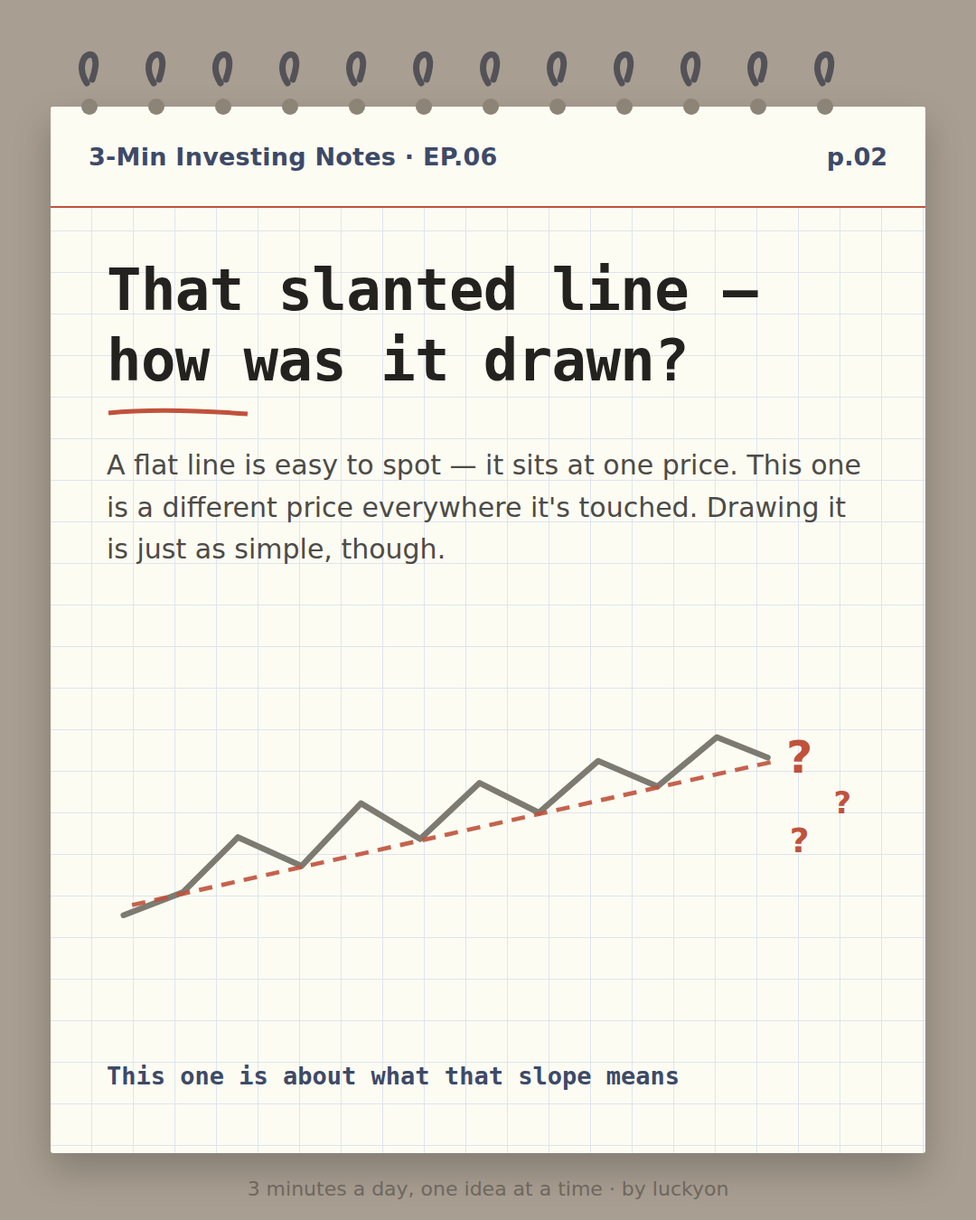
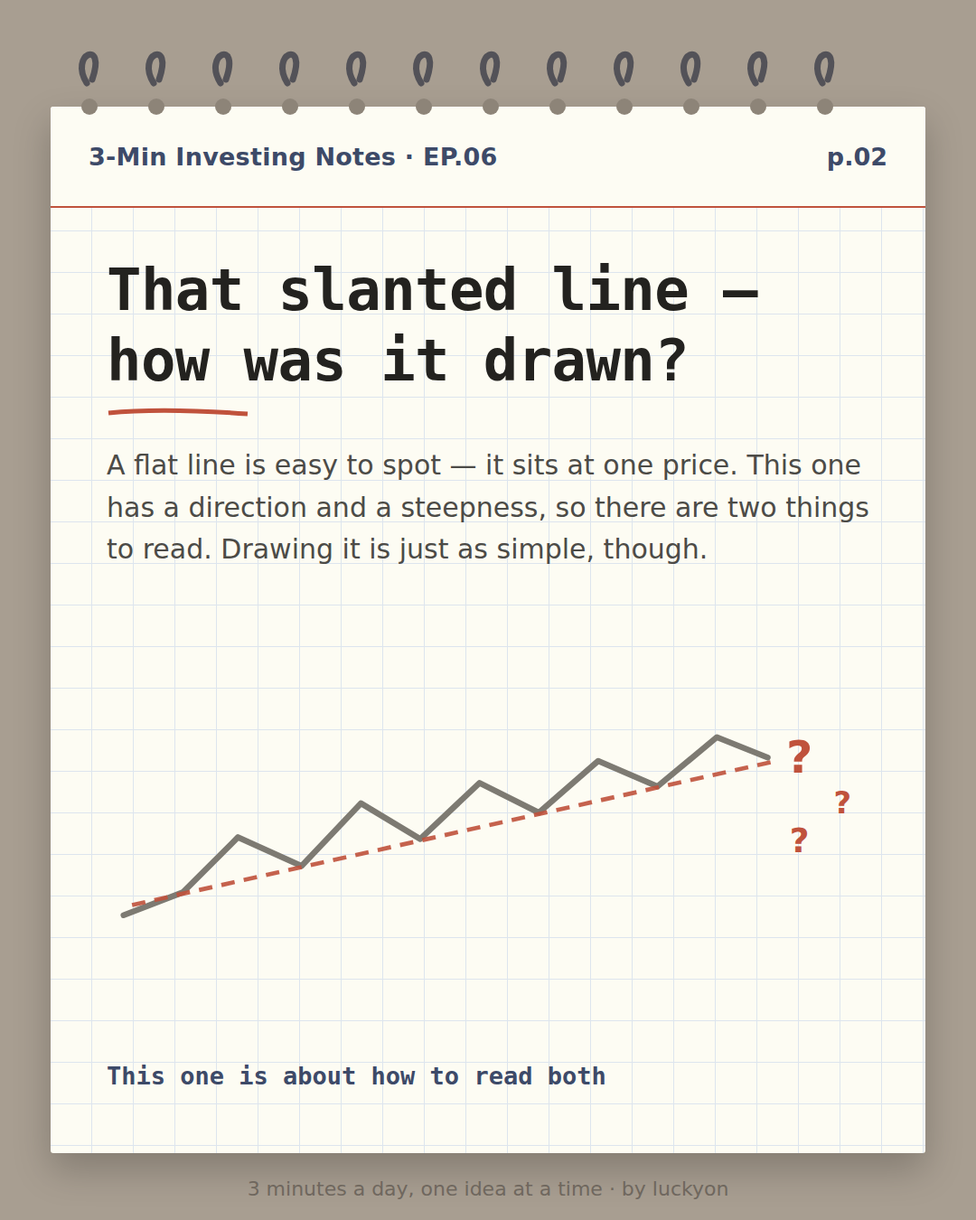
chart-notes: ep06 «방향»을 되살린다 — 표지 두 방향 + 카드 네 장 보강
사용자 지적 — «추세선은 항상 방향과 기울기를 같이 보는데 자꾸 한 부분만
표기된 것들이 보인다. 기울어진 선 두 개로 방향과 속도를 봅니다가 맞지 않나.»
맞다. 축이 둘인 줄 알면서 카드 네 장이 속도만 말하고 있었다.

- p.01 표지: overlay `trend2` 로 상승·하락 두 그룹을 나란히 놓았다. 제목은
  「기울어진 선 두 개로 방향과 속도를 봅니다」, 주석은 「선이 향한 쪽이 «방향» /
  기울어진 정도가 «속도»」. 캔들 색까지 상승·하락이 갈려 EP.01 의 색 관행도
  같이 보인다. 종전 「방향만이 아니라 속도까지」는 방향을 이미 아는 것으로
  밀어내는 문장이었다.
- p.02: 「향한 쪽과 기울어진 정도, 읽을 것이 둘」로 축 두 개를 여기서 세운다.
- p.04: 진짜 대비를 세웠다 — 「가로선 = 멈추는 높이 하나 / 추세선 = 방향과
  속도 둘」. 종전 행은 «속도»만 적혀 있어 대비가 반쪽이었다.
- p.08 요약 ②: 「기울기가 곧 속도」 → 「선이 향한 쪽이 «방향», 기울기가 «속도»」.
- 캡션·대체텍스트도 같은 기준으로 전부 맞췄다.

커버리지 표(신설된 3-0-2)로 다시 확인했다 — 「방향」이 p.01·02·03·04·05·08
여섯 장, 「속도」가 p.01·02·04·07·08 다섯 장에 들어갔다. 종전에는 방향이
사실상 어느 카드에도 없었다.

Claude-Session: https://claude.ai/code/session_01DwdXeftpno199BA7Z1hCtm

Changed region(s): [[0.1222, 0.4044, 0.8861, 0.4667], [0.3667, 0.8711, 0.7028, 0.9022]]

diff --git a/cards/chart-notes/2026-09-06-ep06/preview.html b/cards/chart-notes/2026-09-06-ep06/preview.html
@@ -62,20 +62,20 @@
     <h2>🇰🇷 한국어 — 8장</h2>
     <div class="cards">
     <figure>
-      <img src="ko/card1.png" alt="표지. 크림색 모눈 노트 위에 캔들 여덟 개가 왼쪽 아래에서 오른쪽 위로 계단처럼 올라간다. 그 캔들들의 아래꼬리 끝을 따라 붉은 점선 하나가 비스듬히 그어져 있고, 여러 캔들의 저가가 그 선에 닿아 있다. 점선의 오른쪽 끝을 가리키며 '저점이 점점 올라왔다 — 그 자리를 이은 선'이라는 주석이 붙어 있다. 큰 제목 '기울어진 선 하나로 방향만이 아니라 «속도»까지 봅니다', 부제 'EP.06 · 추세선', 노란 형광펜 칩 '저장하고 넘겨보세요'." loading="lazy">
-      <figcaption><b>p.01</b> 표지. 크림색 모눈 노트 위에 캔들 여덟 개가 왼쪽 아래에서 오른쪽 위로 계단처럼 올라간다. 그 캔들들의 아래꼬리 끝을 따라 붉은 점선 하나가 비스듬히 그어져 있고, 여러 캔들의 저가가 그 선에 닿아 있다. 점선의 오른쪽 끝을 가리키며 '저점이 점점 올라왔다 — 그 자리를 이은 선'이라는 주석이 붙어 있다. 큰 제목 '기울어진 선 하나로 방향만이 아니라 «속도»까지 봅니다', 부제 'EP.06 · 추세선', 노란 형광펜 칩 '저장하고 넘겨보세요'.</figcaption>
+      <img src="ko/card1.png" alt="표지. 크림색 모눈 노트 위에 캔들 묶음이 두 벌 나란히 있다. 왼쪽은 캔들 다섯 개가 계단처럼 올라가고 그 저가들을 따라 붉은 점선이 오른쪽 위로 비스듬히 지난다. 오른쪽은 캔들 다섯 개가 계단처럼 내려가고 그 고가들을 따라 붉은 점선이 오른쪽 아래로 지난다. 두 그림 아래에 '선이 향한 쪽이 «방향» / 기울어진 정도가 «속도»'라는 주석이 붉은 글씨로 두 줄 적혀 있다. 큰 제목 '기울어진 선 두 개로 방향과 속도를 봅니다', 부제 'EP.06 · 추세선', 노란 형광펜 칩 '저장하고 넘겨보세요'." loading="lazy">
+      <figcaption><b>p.01</b> 표지. 크림색 모눈 노트 위에 캔들 묶음이 두 벌 나란히 있다. 왼쪽은 캔들 다섯 개가 계단처럼 올라가고 그 저가들을 따라 붉은 점선이 오른쪽 위로 비스듬히 지난다. 오른쪽은 캔들 다섯 개가 계단처럼 내려가고 그 고가들을 따라 붉은 점선이 오른쪽 아래로 지난다. 두 그림 아래에 '선이 향한 쪽이 «방향» / 기울어진 정도가 «속도»'라는 주석이 붉은 글씨로 두 줄 적혀 있다. 큰 제목 '기울어진 선 두 개로 방향과 속도를 봅니다', 부제 'EP.06 · 추세선', 노란 형광펜 칩 '저장하고 넘겨보세요'.</figcaption>
     </figure>
     <figure>
-      <img src="ko/card2.png" alt="도입 카드. 제목 '차트에 비스듬한 선, 어떻게 그은 걸까요?' 아래에 '가로선은 높이가 하나뿐이라 찾기 쉽지만 이 선은 닿는 자리마다 값이 다르다'는 본문이 있다. 그림은 회색 꺾은선이 왼쪽 아래에서 오른쪽 위로 오르내리며 올라가고, 그 저점들을 따라 붉은 점선 한 줄이 비스듬히 가로지른다. 점선이 끝나는 오른쪽 바깥에 붉은 물음표 세 개가 찍혀 «이 선이 어떻게 그어진 것이냐»고 묻는다. 맨 아래 '이번 편은 그 기울기가 무엇을 뜻하는지 봅니다'." loading="lazy">
-      <figcaption><b>p.02</b> 도입 카드. 제목 '차트에 비스듬한 선, 어떻게 그은 걸까요?' 아래에 '가로선은 높이가 하나뿐이라 찾기 쉽지만 이 선은 닿는 자리마다 값이 다르다'는 본문이 있다. 그림은 회색 꺾은선이 왼쪽 아래에서 오른쪽 위로 오르내리며 올라가고, 그 저점들을 따라 붉은 점선 한 줄이 비스듬히 가로지른다. 점선이 끝나는 오른쪽 바깥에 붉은 물음표 세 개가 찍혀 «이 선이 어떻게 그어진 것이냐»고 묻는다. 맨 아래 '이번 편은 그 기울기가 무엇을 뜻하는지 봅니다'.</figcaption>
+      <img src="ko/card2.png" alt="도입 카드. 제목 '차트에 비스듬한 선, 어떻게 그은 걸까요?' 아래에 '가로선은 값이 하나라 금방 눈에 들어오지만, 이 선은 향한 쪽과 기울어진 정도까지 읽을 것이 둘'이라는 본문이 있다. 그림은 회색 꺾은선이 왼쪽 아래에서 오른쪽 위로 오르내리며 올라가고, 그 저점들을 따라 붉은 점선 한 줄이 비스듬히 가로지른다. 점선이 끝나는 오른쪽 바깥에 붉은 물음표 세 개가 찍혀 «이 선이 어떻게 그어진 것이냐»고 묻는다. 맨 아래 '이번 편에서는 그 둘을 어떻게 읽는지 봅니다'." loading="lazy">
+      <figcaption><b>p.02</b> 도입 카드. 제목 '차트에 비스듬한 선, 어떻게 그은 걸까요?' 아래에 '가로선은 값이 하나라 금방 눈에 들어오지만, 이 선은 향한 쪽과 기울어진 정도까지 읽을 것이 둘'이라는 본문이 있다. 그림은 회색 꺾은선이 왼쪽 아래에서 오른쪽 위로 오르내리며 올라가고, 그 저점들을 따라 붉은 점선 한 줄이 비스듬히 가로지른다. 점선이 끝나는 오른쪽 바깥에 붉은 물음표 세 개가 찍혀 «이 선이 어떻게 그어진 것이냐»고 묻는다. 맨 아래 '이번 편에서는 그 둘을 어떻게 읽는지 봅니다'.</figcaption>
     </figure>
     <figure>
       <img src="ko/card3.png" alt="원리 카드. 감청색 꺾은선이 오르내리며 오른쪽 위로 올라가고, 그 저점 세 개를 지나는 붉은 점선이 왼쪽 아래에서 오른쪽 위로 비스듬히 그어져 있다. 선이 그 점선에 닿은 자리마다 붉은 동그라미 안에 번호가 매겨져 있다 — 왼쪽부터 ①②③. 본문은 가격이 방향을 튼 저점 가운데 점점 높아지는 두 개를 골라 잇고, 그 선을 오른쪽으로 늘려 놓은 뒤 가격이 세 번째로도 그 자리에서 멈추는지 지켜본다고 설명한다. 아래 범례에 감청색 '주가'와 붉은색 '추세선'. 그 아래 붉은 세로줄이 그어진 문단에 '거꾸로도 똑같습니다. 점점 «낮아지는» 고점 두 개를 이으면 하락 추세선이 되고, 이때는 가격이 아래에서 그 선에 부딪힙니다. 잇는 자리가 저점에서 고점으로 바뀔 뿐, 방법은 하나입니다.' 노란 형광펜 마무리 문구는 '두 점이면 선, 세 번째부터 «추세»입니다'." loading="lazy">
       <figcaption><b>p.03</b> 원리 카드. 감청색 꺾은선이 오르내리며 오른쪽 위로 올라가고, 그 저점 세 개를 지나는 붉은 점선이 왼쪽 아래에서 오른쪽 위로 비스듬히 그어져 있다. 선이 그 점선에 닿은 자리마다 붉은 동그라미 안에 번호가 매겨져 있다 — 왼쪽부터 ①②③. 본문은 가격이 방향을 튼 저점 가운데 점점 높아지는 두 개를 골라 잇고, 그 선을 오른쪽으로 늘려 놓은 뒤 가격이 세 번째로도 그 자리에서 멈추는지 지켜본다고 설명한다. 아래 범례에 감청색 '주가'와 붉은색 '추세선'. 그 아래 붉은 세로줄이 그어진 문단에 '거꾸로도 똑같습니다. 점점 «낮아지는» 고점 두 개를 이으면 하락 추세선이 되고, 이때는 가격이 아래에서 그 선에 부딪힙니다. 잇는 자리가 저점에서 고점으로 바뀔 뿐, 방법은 하나입니다.' 노란 형광펜 마무리 문구는 '두 점이면 선, 세 번째부터 «추세»입니다'.</figcaption>
     </figure>
     <figure>
-      <img src="ko/card4.png" alt="비교 카드 '가로선과 뭐가 다를까요'. 왼쪽에 감청색으로 칠해진 '추세선 · 기울어진 선', 오른쪽에 회색 '지지선 · 가로선' 머리칸이 있고 아래로 세 줄이 맞대어 있다. '이을 점들은' — 점점 높아지거나 낮아진다 / 같은 높이다. '그래서 알 수 있는 건' — 점들이 오르내리는 «속도» / 가격이 멈추는 «높이». '선을 벗어나면' — 지켜 오던 흐름이 깨진 것 / 그 높이가 뚫린 것. 노란 형광펜 마무리 문구는 '같은 차트인데 추세선은 사람마다 다릅니다'." loading="lazy">
-      <figcaption><b>p.04</b> 비교 카드 '가로선과 뭐가 다를까요'. 왼쪽에 감청색으로 칠해진 '추세선 · 기울어진 선', 오른쪽에 회색 '지지선 · 가로선' 머리칸이 있고 아래로 세 줄이 맞대어 있다. '이을 점들은' — 점점 높아지거나 낮아진다 / 같은 높이다. '그래서 알 수 있는 건' — 점들이 오르내리는 «속도» / 가격이 멈추는 «높이». '선을 벗어나면' — 지켜 오던 흐름이 깨진 것 / 그 높이가 뚫린 것. 노란 형광펜 마무리 문구는 '같은 차트인데 추세선은 사람마다 다릅니다'.</figcaption>
+      <img src="ko/card4.png" alt="비교 카드 '가로선과 뭐가 다를까요'. 왼쪽에 감청색으로 칠해진 '추세선 · 기울어진 선', 오른쪽에 회색 '지지선 · 가로선' 머리칸이 있고 아래로 세 줄이 맞대어 있다. '이을 점들은' — 점점 높아지거나 낮아진다 / 같은 높이다. '그래서 읽을 것은' — «방향»과 «속도» 둘 / 멈추는 «높이» 하나. '선을 벗어나면' — 지켜 오던 흐름이 깨진 것 / 그 높이가 뚫린 것. 노란 형광펜 마무리 문구는 '같은 차트인데 추세선은 사람마다 다릅니다'." loading="lazy">
+      <figcaption><b>p.04</b> 비교 카드 '가로선과 뭐가 다를까요'. 왼쪽에 감청색으로 칠해진 '추세선 · 기울어진 선', 오른쪽에 회색 '지지선 · 가로선' 머리칸이 있고 아래로 세 줄이 맞대어 있다. '이을 점들은' — 점점 높아지거나 낮아진다 / 같은 높이다. '그래서 읽을 것은' — «방향»과 «속도» 둘 / 멈추는 «높이» 하나. '선을 벗어나면' — 지켜 오던 흐름이 깨진 것 / 그 높이가 뚫린 것. 노란 형광펜 마무리 문구는 '같은 차트인데 추세선은 사람마다 다릅니다'.</figcaption>
     </figure>
     <figure>
       <img src="ko/card5.png" alt="추세 이탈 카드. 감청색 꺾은선이 붉은 점선 추세선을 따라 올라가며 세 번 그 선에서 멈추고, 멈춘 자리마다 붉은 동그라미 ①②③이 붙어 있다. 그러다 오른쪽에서 선이 꺾여 내려오면서 이번에는 점선 «아래»에서 멈추는데, 그 저점은 직전 ③보다는 높은 자리다 — 저점은 올라갔지만 점선을 지킬 만큼은 못 올라온 모양이다. 그 지점에 번호 없는 붉은 동그라미가 있고 그 아래에 '선 이탈' 라벨이 붙어 있다. 이후 선은 점선 아래에 머문 채 오른쪽 위로 이어진다. 본문은 직전 저점보다는 높지만 선을 지킬 만큼 높지는 않았고, 추세가 끝났다는 뜻은 아니며 «흔들린다»는 첫 신호로 본다고 설명한다. 아래 붉은 세로줄 문단에 '하락 추세선이면 방향만 반대입니다 — 고점을 이은 선 «위로» 올라간 날이 이탈입니다.' 노란 형광펜 마무리 문구는 '이탈은 결론이 아니라 첫 신호입니다'." loading="lazy">
@@ -90,29 +90,29 @@
       <figcaption><b>p.07</b> 실수 카드. 번호 붙은 세 항목. 1. 선부터 긋고 저점을 고른다 — 그럴듯한 각도를 먼저 정하고 거기 걸리는 저점만 고르면 시장의 기록이 아니라 내가 그린 그림이 된다. 2. 꼬리 하나로 이탈을 판정한다 — 장중에 저가가 잠깐 선 아래를 찍었다가 다시 올라온 날과 종가까지 선 아래에서 끝난 날은 다르다. 3. 가파를수록 좋은 선이라 본다 — 가파른 선일수록 다음 점이 그만큼 더 움직여 줘야 버티므로, 바라는 게 클수록 지켜지기 어렵다. 아래 붉은 테두리 상자에 '가장 흔한 오해 — 이탈은 «오르던 흐름이 흔들린다»는 첫 신호일 뿐, 추세가 끝났다거나 이제 내려간다는 뜻이 아닙니다. 거기서 가격은 다시 올라갈 수도, 옆으로 갈 수도, 돌아설 수도 있습니다'.</figcaption>
     </figure>
     <figure>
-      <img src="ko/card8.png" alt="요약 카드. 체크박스 세 줄: 점 두 개면 선이고, 세 번째가 있어야 «추세»입니다 / 기울기가 곧 그 점들이 오르내리는 «속도»입니다 / 이탈은 결론이 아니라 첫 신호입니다. 노란 형광펜 칩 두 개로 저장 유도와 해시태그, 그 아래 '다음 편 ▶ 갭 상승·갭 하락', 맨 아래에 교육 목적 고지." loading="lazy">
-      <figcaption><b>p.08</b> 요약 카드. 체크박스 세 줄: 점 두 개면 선이고, 세 번째가 있어야 «추세»입니다 / 기울기가 곧 그 점들이 오르내리는 «속도»입니다 / 이탈은 결론이 아니라 첫 신호입니다. 노란 형광펜 칩 두 개로 저장 유도와 해시태그, 그 아래 '다음 편 ▶ 갭 상승·갭 하락', 맨 아래에 교육 목적 고지.</figcaption>
+      <img src="ko/card8.png" alt="요약 카드. 체크박스 세 줄: 점 두 개면 선이고, 세 번째가 있어야 «추세»입니다 / 선이 향한 쪽이 «방향», 기울기가 «속도»입니다 / 이탈은 결론이 아니라 첫 신호입니다. 노란 형광펜 칩 두 개로 저장 유도와 해시태그, 그 아래 '다음 편 ▶ 갭 상승·갭 하락', 맨 아래에 교육 목적 고지." loading="lazy">
+      <figcaption><b>p.08</b> 요약 카드. 체크박스 세 줄: 점 두 개면 선이고, 세 번째가 있어야 «추세»입니다 / 선이 향한 쪽이 «방향», 기울기가 «속도»입니다 / 이탈은 결론이 아니라 첫 신호입니다. 노란 형광펜 칩 두 개로 저장 유도와 해시태그, 그 아래 '다음 편 ▶ 갭 상승·갭 하락', 맨 아래에 교육 목적 고지.</figcaption>
     </figure></div>
-    <h3>캡션 (1187자)</h3>
-    <div class="cap">차트에 비스듬하게 그어진 선, 대충 눈대중으로 그은 게 아닙니다.<br><br>가격이 방향을 튼 저점들 가운데 «점점 높아지는» 두 개를 골라 이으면 그게 추세선입니다. 두 점이면 선은 되지만, 세 번째로도 그 자리에서 멈추는 날이 와야 «추세»입니다.<br><br>이번 편에서 꼭 가져가셨으면 하는 것 하나. 가로선(지지선)과 추세선은 재는 것이 다릅니다. 가로선으로는 가격이 멈추는 «높이»를 알고, 추세선의 기울기로는 그 점들이 오르내리는 «속도»를 압니다. 그리고 가격이 그 선을 벗어난 날, 저점들이 지켜 오던 규칙이 처음으로 어긋납니다. 다만 그것으로 추세가 끝났다거나 이제 반대로 간다고 정해지지는 않습니다 — 잠깐 되돌렸다가 추세가 그대로 이어지기도 합니다. «흔들린다»는 첫 신호까지가 이 선으로 알 수 있는 전부이고, 이걸 «이제 떨어진다»로 읽는 것이 가장 흔한 오해입니다.<br><br>실제 삼성전자 일봉으로도 확인했습니다. 2026년 7월 30일 저가 20만 2,000원과 8월 11일 저가 22만 7,500원을 이어 오른쪽으로 늘려 봤더니, 8거래일 뒤인 8월 24일 저가 25만 5,000원이 그 선(25만 3,000원) 바로 위에서 멈췄습니다. 이 선이 어떻게 끝났는지도 같이 실었습니다 — 8월 25·26·27일은 꼬리만 선 아래를 찍고 종가는 위였지만, 8월 28일에는 종가 25만 7,000원이 선(26만 5,750원) 아래에서 끝났습니다. 꼬리와 종가를 갈라 보는 이유가 여기 있습니다. 그리고 그 뒤 8월 31일부터 9월 4일까지, 값은 더 내려가지 않고 옆으로만 갔습니다 — 선이 깨지는 것과 값이 떨어지는 것은 다릅니다.<br><br>카드에 실은 예시는 저점을 잇는 상승 추세선이지만, 거꾸로도 똑같습니다. 점점 «낮아지는» 고점 두 개를 이으면 하락 추세선이고, 이때는 가격이 아래에서 그 선에 부딪힙니다. 이탈도 반대로, 선 «위로» 올라간 날입니다. 잇는 자리가 저점에서 고점으로 바뀔 뿐 방법은 하나입니다.<br><br>기억할 세 가지<br>① 점 두 개면 선이고, 세 번째가 있어야 «추세»다<br>② 기울기가 곧 그 점들이 오르내리는 속도다<br>③ 이탈은 결론이 아니라 «흔들린다»는 첫 신호다<br><br>저장해 두고 차트 볼 때 꺼내 보세요 📌<br><br>#추세선 #추세이탈 #지지선 #주식차트 #주식공부 #주식초보 #차트분석 #기술적분석 #삼성전자 #투자3분노트<br><br>다음 편 ▶ 갭 상승·갭 하락<br><br>※ 본 콘텐츠는 교육 목적이며 투자 권유가 아닙니다.</div>
+    <h3>캡션 (1217자)</h3>
+    <div class="cap">차트에 비스듬하게 그어진 선, 대충 눈대중으로 그은 게 아닙니다.<br><br>가격이 방향을 튼 저점들 가운데 «점점 높아지는» 두 개를 골라 이으면 그게 추세선입니다. 두 점이면 선은 되지만, 세 번째로도 그 자리에서 멈추는 날이 와야 «추세»입니다.<br><br>이번 편에서 꼭 가져가셨으면 하는 것 하나. 가로선(지지선)과 추세선은 재는 것이 다릅니다. 가로선에서는 가격이 멈추는 «높이» 하나를 읽지만, 추세선에서는 선이 향한 쪽에서 «방향»을, 기울어진 정도에서 «속도»를 함께 읽습니다. 읽을 것이 둘입니다. 그리고 가격이 그 선을 벗어난 날, 저점들이 지켜 오던 규칙이 처음으로 어긋납니다. 다만 그것으로 추세가 끝났다거나 이제 반대로 간다고 정해지지는 않습니다 — 잠깐 되돌렸다가 추세가 그대로 이어지기도 합니다. «흔들린다»는 첫 신호까지가 이 선으로 알 수 있는 전부이고, 이걸 «이제 떨어진다»로 읽는 것이 가장 흔한 오해입니다.<br><br>실제 삼성전자 일봉으로도 확인했습니다. 2026년 7월 30일 저가 20만 2,000원과 8월 11일 저가 22만 7,500원을 이어 오른쪽으로 늘려 봤더니, 8거래일 뒤인 8월 24일 저가 25만 5,000원이 그 선(25만 3,000원) 바로 위에서 멈췄습니다. 이 선이 어떻게 끝났는지도 같이 실었습니다 — 8월 25·26·27일은 꼬리만 선 아래를 찍고 종가는 위였지만, 8월 28일에는 종가 25만 7,000원이 선(26만 5,750원) 아래에서 끝났습니다. 꼬리와 종가를 갈라 보는 이유가 여기 있습니다. 그리고 그 뒤 8월 31일부터 9월 4일까지, 값은 더 내려가지 않고 옆으로만 갔습니다 — 선이 깨지는 것과 값이 떨어지는 것은 다릅니다.<br><br>카드에 실은 예시는 저점을 잇는 상승 추세선이지만, 거꾸로도 똑같습니다. 점점 «낮아지는» 고점 두 개를 이으면 하락 추세선이고, 이때는 가격이 아래에서 그 선에 부딪힙니다. 이탈도 반대로, 선 «위로» 올라간 날입니다. 잇는 자리가 저점에서 고점으로 바뀔 뿐 방법은 하나입니다.<br><br>기억할 세 가지<br>① 점 두 개면 선이고, 세 번째가 있어야 «추세»다<br>② 선이 향한 쪽이 방향, 기울기가 속도다<br>③ 이탈은 결론이 아니라 «흔들린다»는 첫 신호다<br><br>저장해 두고 차트 볼 때 꺼내 보세요 📌<br><br>#추세선 #추세이탈 #지지선 #주식차트 #주식공부 #주식초보 #차트분석 #기술적분석 #삼성전자 #투자3분노트<br><br>다음 편 ▶ 갭 상승·갭 하락<br><br>※ 본 콘텐츠는 교육 목적이며 투자 권유가 아닙니다.</div>
 
     <h2>🇺🇸 English — 8장</h2>
     <div class="cards">
     <figure>
-      <img src="en/card1.png" alt="Cover. On cream grid paper, eight candlesticks step up from the lower left to the upper right. A single red dashed line runs diagonally beneath them, touching the lows of several candles. An annotation points at the right end of that line: 'the lows kept rising — that's the line'. Headline 'One slanted line tells you how fast, not just which way', subtitle 'EP.06 · Trendlines', yellow highlighter chip 'Save this and swipe'." loading="lazy">
-      <figcaption><b>p.01</b> Cover. On cream grid paper, eight candlesticks step up from the lower left to the upper right. A single red dashed line runs diagonally beneath them, touching the lows of several candles. An annotation points at the right end of that line: 'the lows kept rising — that's the line'. Headline 'One slanted line tells you how fast, not just which way', subtitle 'EP.06 · Trendlines', yellow highlighter chip 'Save this and swipe'.</figcaption>
+      <img src="en/card1.png" alt="Cover. On cream grid paper, two groups of candlesticks sit side by side. On the left, five candles step upward and a red dashed line runs diagonally up along their lows. On the right, five candles step downward and a red dashed line runs diagonally down along their highs. Beneath the two groups, a two-line red annotation reads 'which way it points = direction / how steep it is = speed'. Headline 'Two slanted lines show direction and speed', subtitle 'EP.06 · Trendlines', yellow highlighter chip 'Save this and swipe'." loading="lazy">
+      <figcaption><b>p.01</b> Cover. On cream grid paper, two groups of candlesticks sit side by side. On the left, five candles step upward and a red dashed line runs diagonally up along their lows. On the right, five candles step downward and a red dashed line runs diagonally down along their highs. Beneath the two groups, a two-line red annotation reads 'which way it points = direction / how steep it is = speed'. Headline 'Two slanted lines show direction and speed', subtitle 'EP.06 · Trendlines', yellow highlighter chip 'Save this and swipe'.</figcaption>
     </figure>
     <figure>
-      <img src="en/card2.png" alt="Intro card. Headline 'That slanted line — how was it drawn?' with body text noting that a flat line sits at one price while this one is a different price everywhere it's touched. The sketch shows a grey zigzag climbing from the lower left to the upper right, with a single red dashed line running diagonally along its lows, and three red question marks just beyond where that dashed line ends. Footer line: 'This one is about what that slope means'." loading="lazy">
-      <figcaption><b>p.02</b> Intro card. Headline 'That slanted line — how was it drawn?' with body text noting that a flat line sits at one price while this one is a different price everywhere it's touched. The sketch shows a grey zigzag climbing from the lower left to the upper right, with a single red dashed line running diagonally along its lows, and three red question marks just beyond where that dashed line ends. Footer line: 'This one is about what that slope means'.</figcaption>
+      <img src="en/card2.png" alt="Intro card. Headline 'That slanted line — how was it drawn?' with body text noting that a flat line sits at one price while this one has both a direction and a steepness, so there are two things to read. The sketch shows a grey zigzag climbing from the lower left to the upper right, with a single red dashed line running diagonally along its lows, and three red question marks just beyond where that dashed line ends. Footer line: 'This one is about how to read both'." loading="lazy">
+      <figcaption><b>p.02</b> Intro card. Headline 'That slanted line — how was it drawn?' with body text noting that a flat line sits at one price while this one has both a direction and a steepness, so there are two things to read. The sketch shows a grey zigzag climbing from the lower left to the upper right, with a single red dashed line running diagonally along its lows, and three red question marks just beyond where that dashed line ends. Footer line: 'This one is about how to read both'.</figcaption>
     </figure>
     <figure>
       <img src="en/card3.png" alt="Mechanics card. A navy zigzag climbs to the upper right, and a red dashed line runs diagonally through three of its lows. Each point where the price line stops on that dashed line is marked with a red circled number — 1, 2 and 3 from left to right. Body text explains picking two lows that sit at rising heights, joining them, extending the line to the right, and watching for a third stop on it. A legend below shows navy 'Price' and red 'Trendline'. Below the figure, a paragraph with a red rule down its left edge reads 'It works upside down too. Join two highs that sit at falling heights and you get a downtrend line, which price meets from below. Only the points change - highs instead of lows, falling instead of rising.' Yellow highlighter closing: 'Two points, a line. Three, a trend.'" loading="lazy">
       <figcaption><b>p.03</b> Mechanics card. A navy zigzag climbs to the upper right, and a red dashed line runs diagonally through three of its lows. Each point where the price line stops on that dashed line is marked with a red circled number — 1, 2 and 3 from left to right. Body text explains picking two lows that sit at rising heights, joining them, extending the line to the right, and watching for a third stop on it. A legend below shows navy 'Price' and red 'Trendline'. Below the figure, a paragraph with a red rule down its left edge reads 'It works upside down too. Join two highs that sit at falling heights and you get a downtrend line, which price meets from below. Only the points change - highs instead of lows, falling instead of rising.' Yellow highlighter closing: 'Two points, a line. Three, a trend.'</figcaption>
     </figure>
     <figure>
-      <img src="en/card4.png" alt="Comparison card headed 'How it differs from a flat line'. A navy panel labelled 'Trendline · slanted' sits on the left, a grey panel labelled 'Support · flat' on the right, with three rows beneath. 'The points it joins' - keep rising or falling / sit at one height. 'So what the line records' - the pace those points move / the height it stops at. 'If price leaves it' - that pattern has broken / that height has given way. Yellow highlighter closing: 'Same chart, different trendlines.'" loading="lazy">
-      <figcaption><b>p.04</b> Comparison card headed 'How it differs from a flat line'. A navy panel labelled 'Trendline · slanted' sits on the left, a grey panel labelled 'Support · flat' on the right, with three rows beneath. 'The points it joins' - keep rising or falling / sit at one height. 'So what the line records' - the pace those points move / the height it stops at. 'If price leaves it' - that pattern has broken / that height has given way. Yellow highlighter closing: 'Same chart, different trendlines.'</figcaption>
+      <img src="en/card4.png" alt="Comparison card headed 'How it differs from a flat line'. A navy panel labelled 'Trendline · slanted' sits on the left, a grey panel labelled 'Support · flat' on the right, with three rows beneath. 'The points it joins' - keep rising or falling / sit at one height. 'So what you read off it' - direction and speed / one height, and that's it. 'If price leaves it' - that pattern has broken / that height has given way. Yellow highlighter closing: 'Same chart, different trendlines.'" loading="lazy">
+      <figcaption><b>p.04</b> Comparison card headed 'How it differs from a flat line'. A navy panel labelled 'Trendline · slanted' sits on the left, a grey panel labelled 'Support · flat' on the right, with three rows beneath. 'The points it joins' - keep rising or falling / sit at one height. 'So what you read off it' - direction and speed / one height, and that's it. 'If price leaves it' - that pattern has broken / that height has given way. Yellow highlighter closing: 'Same chart, different trendlines.'</figcaption>
     </figure>
     <figure>
       <img src="en/card5.png" alt="Trend-break card. A navy price line climbs along a red dashed trendline, stopping on it three times; each stop is marked with a red circled number 1, 2 and 3. Then, at the right, the line turns down and this time its low lands underneath the dashed line — but that low still sits higher than the one at 3, so the lows are still rising, just not by as much as the line was asking. That point carries an unnumbered red circle with a 'Line break' label beneath it, and the price line then continues up and to the right while staying below the dashed line. Body text explains that the low is still higher than the one before and simply fell short of what the line asked, and that this is not confirmation the trend is over but a first sign of weakening. Below the figure, a paragraph with a red rule down its left edge reads "On a downtrend line it's the mirror image: the break is the day price closes above the line joining the highs." Yellow highlighter closing: 'A break is a first warning, not a verdict.'" loading="lazy">
@@ -127,11 +127,11 @@
       <figcaption><b>p.07</b> Mistakes card. Three numbered items. 1. Drawing the angle first — decide on a slope you like, then pick only the lows that fit it, and the line becomes your drawing rather than the market's record. 2. Calling one wick a break — a low that dips under the line intraday and climbs back is not the same as a close that finishes below it. 3. Assuming steeper is better — a steep line only holds if every new point moves that much further, so the more it demands the harder it is to keep. A red-bordered box below reads 'The biggest misconception — a break warns that the trend is weakening. It does not confirm the trend is over, or that price will fall; it can resume, drift sideways, or reverse.'</figcaption>
     </figure>
     <figure>
-      <img src="en/card8.png" alt="Recap card. Three checkbox lines: Two points draw it, the third makes it a trend / The slope is the pace those points move / A break is a first warning, not a verdict. Two yellow highlighter chips with a save prompt and hashtags, then 'Next up ▶ Gap up &amp; gap down', and an educational-purpose disclaimer at the bottom." loading="lazy">
-      <figcaption><b>p.08</b> Recap card. Three checkbox lines: Two points draw it, the third makes it a trend / The slope is the pace those points move / A break is a first warning, not a verdict. Two yellow highlighter chips with a save prompt and hashtags, then 'Next up ▶ Gap up &amp; gap down', and an educational-purpose disclaimer at the bottom.</figcaption>
+      <img src="en/card8.png" alt="Recap card. Three checkbox lines: Two points draw it, the third makes it a trend / Where it points is direction; how steep, the speed / A break is a first warning, not a verdict. Two yellow highlighter chips with a save prompt and hashtags, then 'Next up ▶ Gap up &amp; gap down', and an educational-purpose disclaimer at the bottom." loading="lazy">
+      <figcaption><b>p.08</b> Recap card. Three checkbox lines: Two points draw it, the third makes it a trend / Where it points is direction; how steep, the speed / A break is a first warning, not a verdict. Two yellow highlighter chips with a save prompt and hashtags, then 'Next up ▶ Gap up &amp; gap down', and an educational-purpose disclaimer at the bottom.</figcaption>
     </figure></div>
-    <h3>캡션 (1853자)</h3>
-    <div class="cap">That slanted line across the chart wasn't drawn by eye.<br><br>Pick two lows where price turned around — two that sit at rising heights — join them, and that's a trendline. Two points draw the line; it only becomes a trend when price stops on it a third time.<br><br>Here's the one idea worth keeping from this episode. A flat line and a slanted line measure different things. Support records the height where price stops; a trendline's slope records the pace at which those points move. And on the day price leaves that line, the rule those points had been keeping is broken for the first time. That alone does not confirm the trend is over, or that it has reversed — a break can be a pullback that still resolves into continuation. A first warning that the trend is weakening is the whole of what the line tells you, and reading it as "it will now fall" is the most common misreading.<br><br>We checked it on real Apple daily bars too. Join the August 12, 2026 low of $300.57 to the August 17 low of $302.94 and extend the line: eight sessions after that second low, the August 27 low of $309.40 stopped just $0.14 above it.<br><br>The examples here are uptrend lines, drawn under the lows, but it works upside down too. Join two highs that sit at falling heights and you get a downtrend line, which price meets from below — and there the break is the day price closes above it. Highs instead of lows, falling instead of rising; the method is the same.<br><br>Three things to keep<br>1. Two points draw it, the third makes it a trend<br>2. The slope is the pace those points move<br>3. A break is a first warning, not a verdict<br><br>Save it and pull it up next time you open a chart 📌<br><br>#trendline #trendbreak #support #stockcharts #investingbasics #stockmarket101 #technicalanalysis #charting #apple #3mininvesting<br><br>Next up ▶ Gap up &amp; gap down<br><br>Educational content only. Not investment advice.</div>
+    <h3>캡션 (1912자)</h3>
+    <div class="cap">That slanted line across the chart wasn't drawn by eye.<br><br>Pick two lows where price turned around — two that sit at rising heights — join them, and that's a trendline. Two points draw the line; it only becomes a trend when price stops on it a third time.<br><br>Here's the one idea worth keeping from this episode. A flat line and a slanted line measure different things. A flat line gives you one thing — the height where price stops. A trendline gives you two: the way it points is the direction, and how steep it is, the speed. And on the day price leaves that line, the rule those points had been keeping is broken for the first time. That alone does not confirm the trend is over, or that it has reversed — a break can be a pullback that still resolves into continuation. A first warning that the trend is weakening is the whole of what the line tells you, and reading it as "it will now fall" is the most common misreading.<br><br>We checked it on real Apple daily bars too. Join the August 12, 2026 low of $300.57 to the August 17 low of $302.94 and extend the line: eight sessions after that second low, the August 27 low of $309.40 stopped just $0.14 above it.<br><br>The examples here are uptrend lines, drawn under the lows, but it works upside down too. Join two highs that sit at falling heights and you get a downtrend line, which price meets from below — and there the break is the day price closes above it. Highs instead of lows, falling instead of rising; the method is the same.<br><br>Three things to keep<br>1. Two points draw it, the third makes it a trend<br>2. Where it points is direction; how steep, the speed<br>3. A break is a first warning, not a verdict<br><br>Save it and pull it up next time you open a chart 📌<br><br>#trendline #trendbreak #support #stockcharts #investingbasics #stockmarket101 #technicalanalysis #charting #apple #3mininvesting<br><br>Next up ▶ Gap up &amp; gap down<br><br>Educational content only. Not investment advice.</div>
 
 
 <div class="act">

diff --git a/content/chart-notes/_knowledge/추세선.md b/content/chart-notes/_knowledge/추세선.md
@@ -8,6 +8,15 @@
 
 ---
 
+## 0. 이 개념을 이루는 축 — **둘이다**
+
+**추세선 = «방향» + «기울기(속도)».** 선 하나에서 이 둘을 «함께» 읽는다.
+- **방향** — 선이 오른쪽 위를 향하면 상승 추세, 오른쪽 아래를 향하면 하락 추세.
+- **속도** — 그 선이 가파르면 빠르게, 완만하면 천천히.
+- **가로선(지지·저항)에는 방향이 없다.** 그래서 읽을 것이 «높이» 하나뿐이다. 이 대비가 두 선의 진짜 차이다.
+
+**둘 중 하나만 말하면 반쪽이다.** EP.06 초안이 카드 네 장에서 «속도»만 말해 사용자 지적을 받았다(§5 ⑤).
+
 ## 1. 정의 — 여기까지는 이견이 없다
 
 - 단기 변동을 무시하고 방향을 그린 직선. **상승 추세선은 저점을, 하락 추세선은 고점을 잇는다.**
@@ -63,3 +72,9 @@
   영어 어순(「세 번째로 그 선에서 멈추는지 봅니다」), 딱딱한 한자어(「요구가 클수록 지켜지기 어렵습니다」)가
   카드 전체에 깔려 있었다. → 절차서 3-1-1 로 «한국어 먼저 완성 → 다섯 패턴 점검 → 그다음 영어» 를 강제하고,
   ROUTINE_COMMON §3 의 A 범주에 «한국어다움»을 넣었다.
+- **2026-09-06 ⑤** 「추세선에는 항상 방향과 기울기를 같이 보게 되는데 자꾸 한 부분만 표기된 것들이 보인다.」
+  → §0 의 축이 둘인 줄 알면서도 p.01(«방향만이 아니라 속도까지» — 방향을 이미 아는 것으로 밀어냄),
+  p.02(«그 기울기가 무슨 뜻인지»), p.04(«점들이 오르내리는 속도»), p.08 ②(«기울기가 곧 속도»)가
+  전부 속도만 말했다. → 표지를 상승·하락 두 선(overlay `trend2`)으로 바꿔 방향과 속도를 함께 보이게 하고,
+  p.04 의 대비를 «가로선 = 높이 하나 / 추세선 = 방향과 속도 둘»로 다시 세웠다.
+  절차서에는 4-B §0(개념의 축)과 3-0-2(가르칠 것 목록 + 커버리지 표)를 신설했다.
